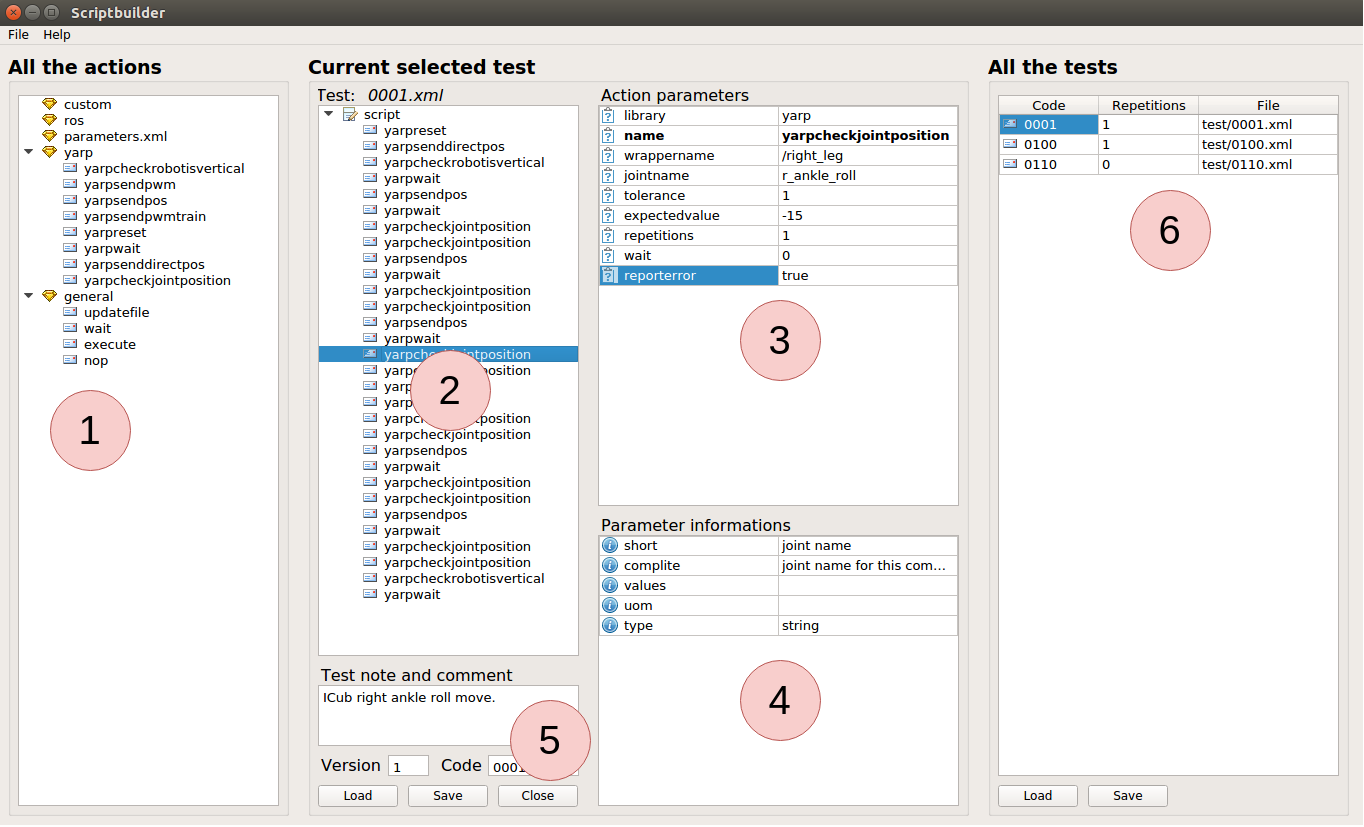
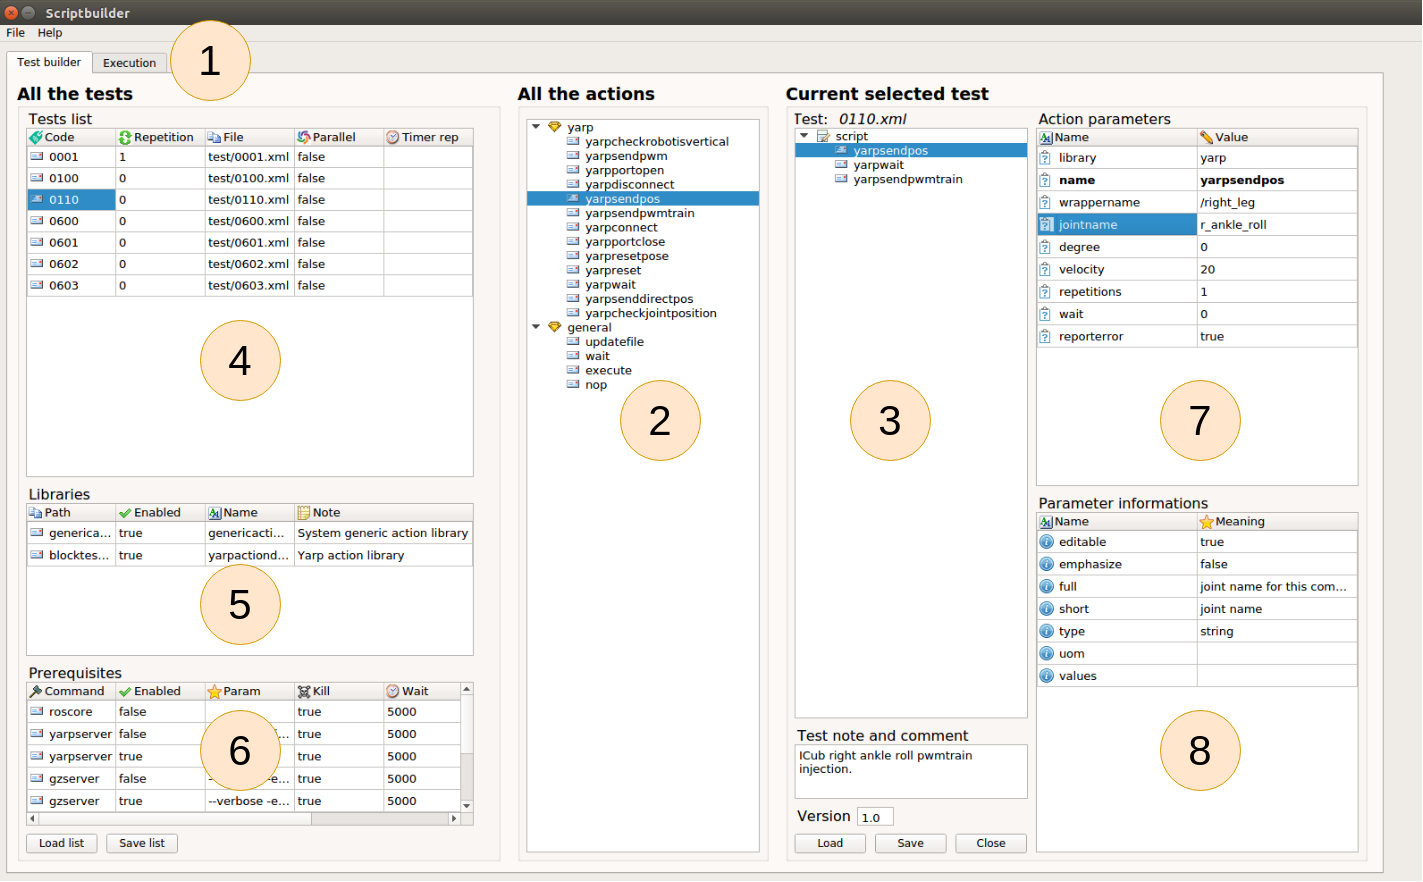
Documentation fix

Changed region(s): [[0.0, 0.0, 0.9853, 0.9976], [0.8006, 0.786, 0.893, 0.9069], [0.7082, 0.0605, 0.8314, 0.0907]]

diff --git a/src/scriptbuilder/README.md b/src/scriptbuilder/README.md
@@ -1,20 +1,24 @@
 # 1. Script builder
 
-- [1. Script builder](#1-script-builder)
-- [2. Introduction](#2-introduction)
-- [3. Installation](#3-installation)
-- [4. Execution](#4-execution)
-- [5. Scriptbuilder section](#5-scriptbuilder-section)
-  - [5.1. Actions list section (#1)](#51-actions-list-section-1)
-  - [5.2. Test section (#2)](#52-test-section-2)
-  - [5.3. Parameters in action](#53-parameters-in-action)
-  - [5.4. Parameters info](#54-parameters-info)
-  - [5.5. Test info](#55-test-info)
-  - [5.6. Tests list](#56-tests-list)
-- [6. Writing the test](#6-writing-the-test)
-  - [6.1. Write the test](#61-write-the-test)
-  - [6.2. Write the test list](#62-write-the-test-list)
-- [7. Authors](#7-authors)
+- [1. Script builder](#1-Script-builder)
+- [2. Introduction](#2-Introduction)
+- [3. Installation](#3-Installation)
+- [4. Execution](#4-Execution)
+- [5. Scriptbuilder section](#5-Scriptbuilder-section)
+  - [5.1. Build or execute tab](#51-Build-or-execute-tab)
+  - [5.2. Tests list](#52-Tests-list)
+  - [5.3. Actions list section](#53-Actions-list-section)
+  - [5.4. Test section](#54-Test-section)
+  - [5.5. Parameters in action](#55-Parameters-in-action)
+  - [5.6. Parameters info](#56-Parameters-info)
+  - [5.7. Tests list](#57-Tests-list)
+  - [5.8. Prerequisite list](#58-Prerequisite-list)
+  - [5.9. Tests list](#59-Tests-list)
+- [6. Writing the test](#6-Writing-the-test)
+  - [6.1. Write the test](#61-Write-the-test)
+  - [6.2. Write the test list](#62-Write-the-test-list)
+- [7. Execute the test](#7-Execute-the-test)
+- [8. Authors](#8-Authors)
 
 # 2. Introduction
 
@@ -27,7 +31,7 @@ It is possible to select the Scriptbuilder compilation and install from cmake.
 Take a look at https://github.com/robotology/blocktest/blob/master/README.md
 for more details.
 
-![alt text](../img/img003.png "Tarp and Scriptbuilder options.")
+![alt text](img/img003.png "Yarp and Scriptbuilder options.")
 
 # 4. Execution
 
@@ -41,30 +45,40 @@ In the following figure is possible to find the main UI section.
 
 ![alt text](img/img001.png "Scriptbuilder windows.")
 
-## 5.1. Actions list section (#1)
+## 5.1. Build or execute tab
+Section **#9**  build or execute test tab.
 
-Section **#1** is the action list. Here are available all the action
+## 5.2. Tests list
+Section **#6** shows all available tests. It is possibile to add or delete a test and change test parameters.
+
+## 5.3. Actions list section
+
+Section **#2** is the action list. Here are available all the action
 in the system divided by libraries.
-It is possible to drag and drop the action to the test in section **2**.
+It is possible to drag and drop the action to the test in section **3**.
 
-## 5.2. Test section (#2)
+## 5.4. Test section
 
-Section **#2** contains the current test. It is possible to delete (del keyboard), copy and paste the action inside section or drag and drop action from section **#1**.
+Section **#3** contains the current test. It is possible to delete (del keyboard), copy and paste the action inside section or drag and drop action from section **#2**.
 
-## 5.3. Parameters in action
+## 5.5. Parameters in action
 
-Section **#3** shows all the parameters in the selected action in test
-in selection **#2**. It is possibile to change the parameters value.
+Section **#7** shows all the parameters in the selected action in test
+in selection **#3**. It is possibile to change the parameters value.
 
-## 5.4. Parameters info
+## 5.6. Parameters info
 
-Section **#4** shows all the parameter information in the selected parameter in selection **#3**.
+Section **#8** shows all the parameter information in the selected parameter in selection **#7**.
 
-## 5.5. Test info
+## 5.7. Tests list
 
-Section **#5** shows all the selected test informations.
+Section **#4** shows all available tests. It is possibile to add or delete a test and change test parameters.
 
-## 5.6. Tests list
+## 5.8. Prerequisite list
+
+Section **#6** shows all available prerquisites.
+
+## 5.9. Tests list
 
 Section **#6** shows all available tests. It is possibile to add or delete a test and change test parameters.
 
@@ -80,7 +94,15 @@ You can add the new tests in the test list in section **#6**.
 To add or delete use the right click context menu on the tests list.
 You can save the tests list with the SAVE button.
 
-# 7. Authors
+# 7. Execute the test
+Enter in Execute tab.
+Here is present the start button to start executing the test.
+The log can be selected on the combo box on the down right.
+
+
+![alt text](img/img004.png "Execute tab.")
+
+# 8. Authors
 * Luca Tricerri ([*personal page*](http://www.iit.it/en/people/Luca-tricerri.html))
 
 

diff --git a/README.md b/README.md
@@ -243,7 +243,7 @@ list the tests together with the **file** in which the test has been written.
 | name               | ---           | Test name.                                                                                       |
 | code               | ---           | Numeric code for identifying the test, could be related to test case.                            |
 | parallel           | false         | Should the test be executed in paralell.                                                         |
-| repetitionsfortime | 0             | If specified is the time to repeat the test.                                                     |
+| repetitionsfortime | 0             | If specified is the time to repeat the test in seconds.                                                     |
 
 ### 5.4.1. Parallel or serie execution
 It is possibile to specify if some tests are executed in series or parallel.
@@ -371,7 +371,7 @@ These commands are contained in the generic command library plugin.
 
 ## 5.6. Test writing with Scriptbuilder
 Script builder is a UI for test and test list writing.
-See at https://github.com/robotology/blocktest/tree/master/scriptbuilder
+See at https://github.com/robotology/blocktest/blob/master/src/scriptbuilder/README.md
 for more informations.
 
 ![alt text](img/img002.png "Scriptbuilder.")
